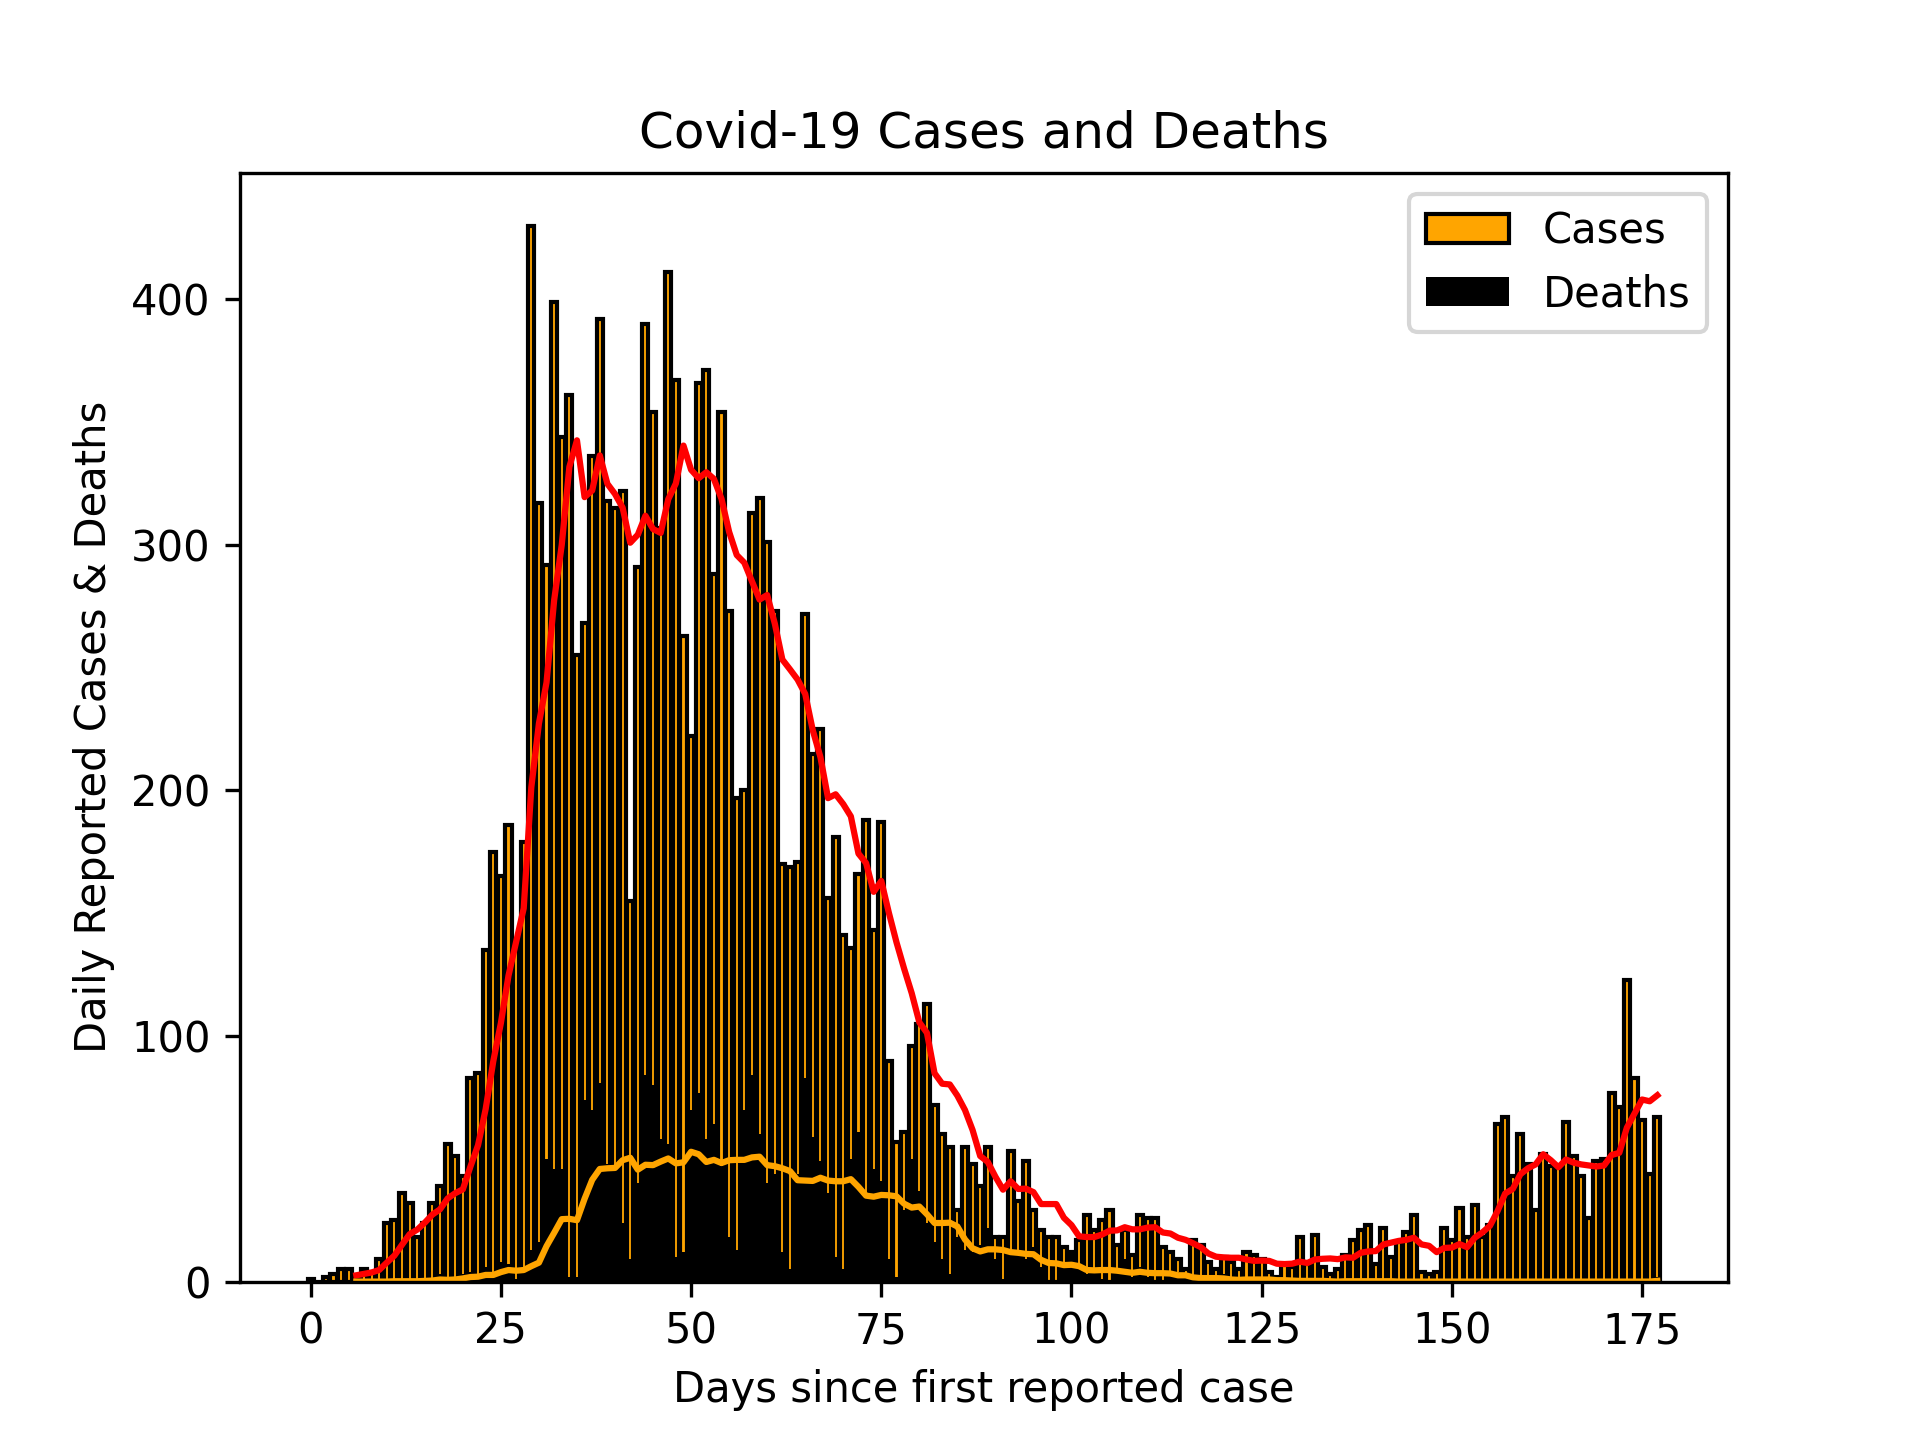
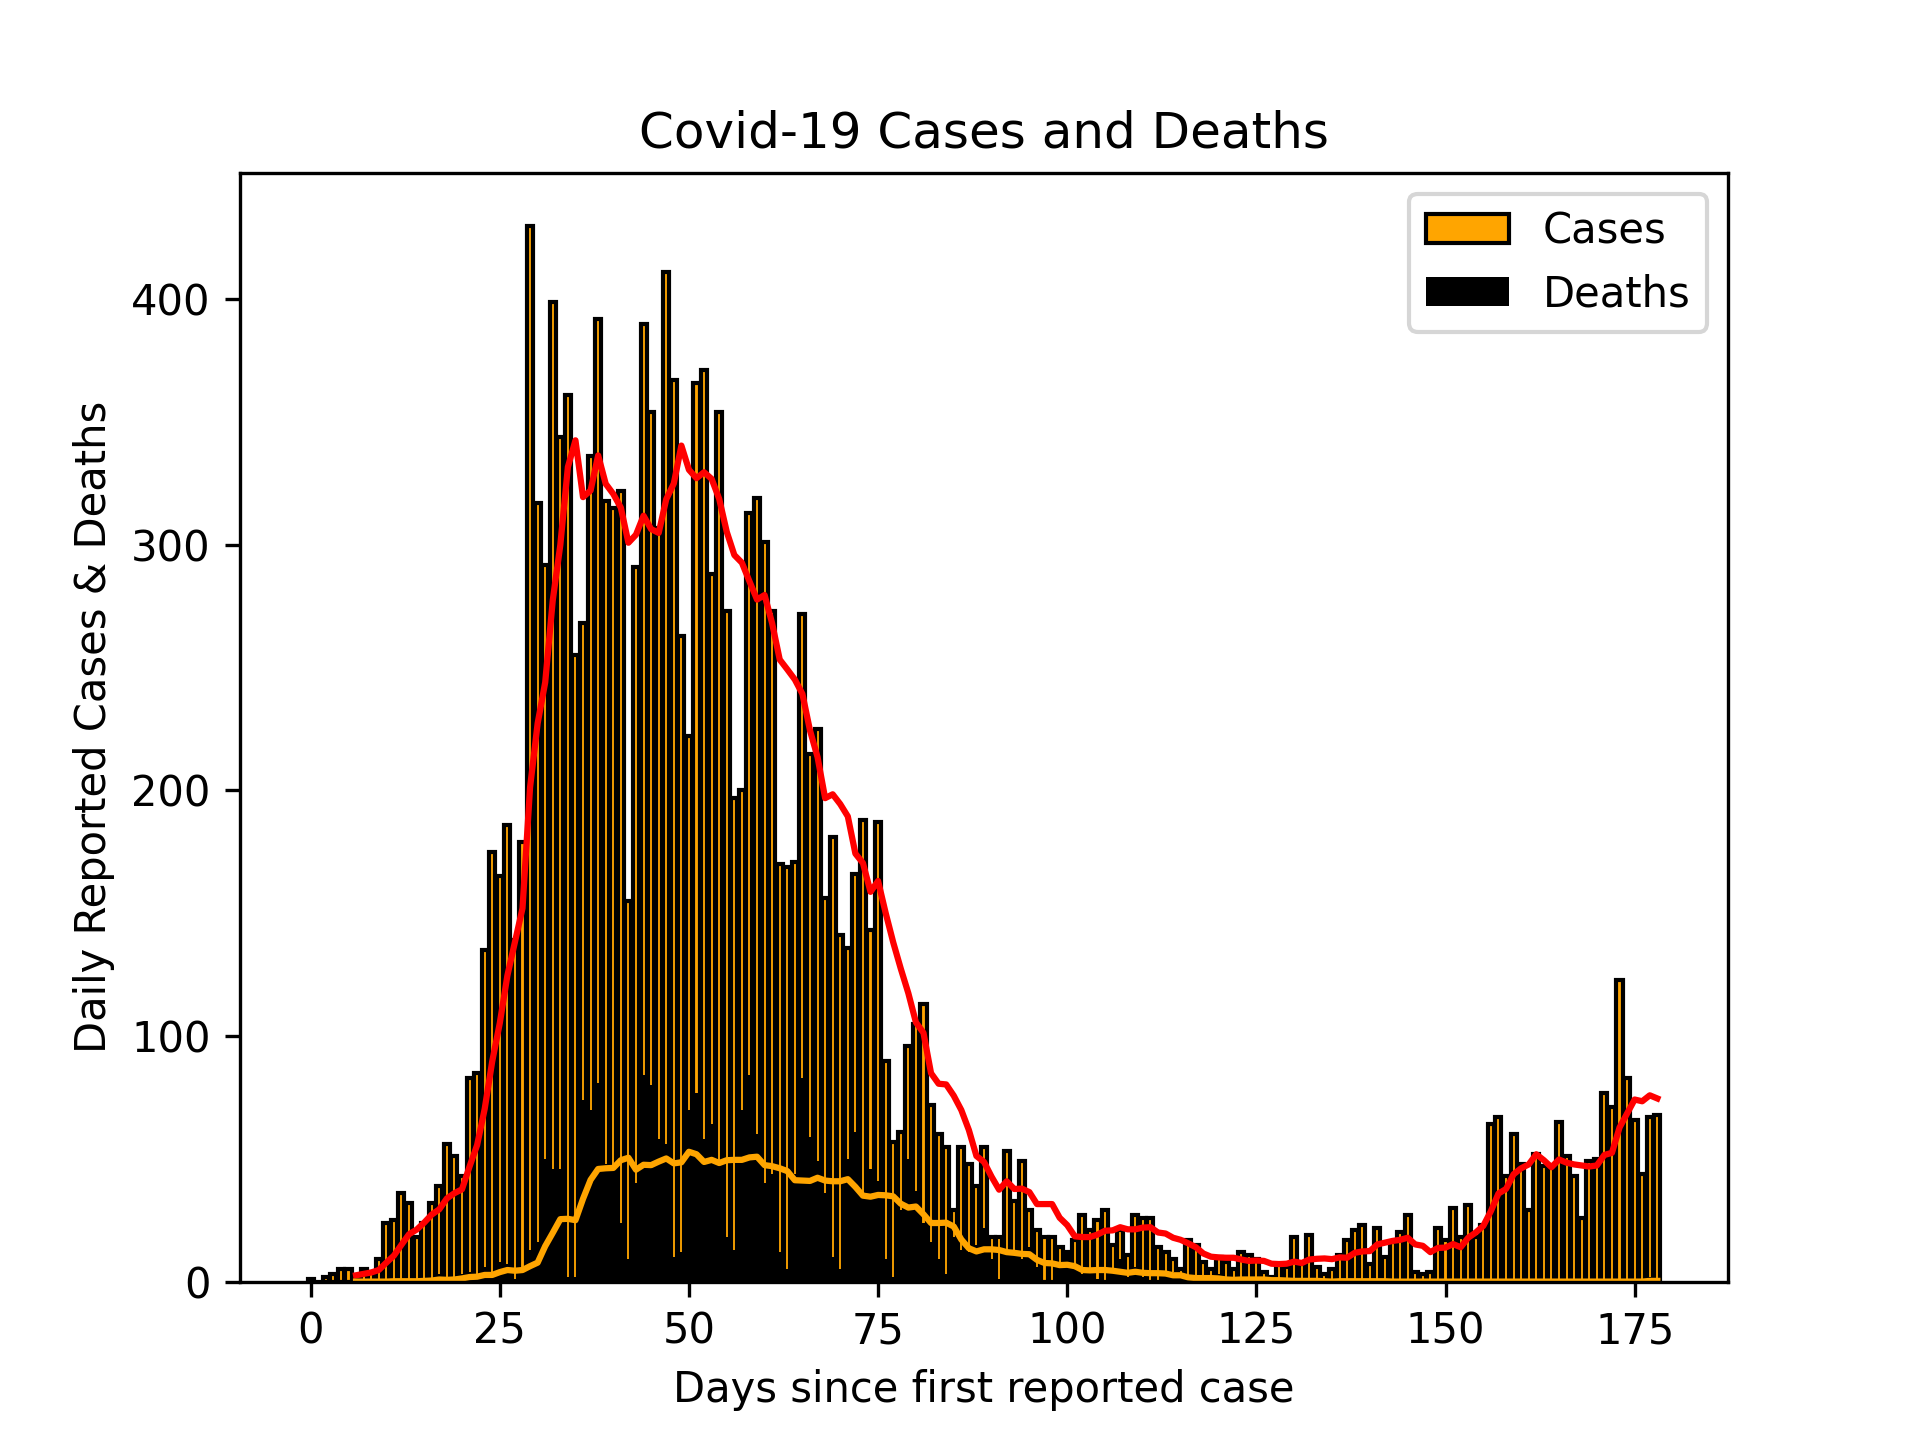
Updated Scottish cases 27/08/20

diff --git a/README.md b/README.md
@@ -1,3 +1,3 @@
-# Scottish Cases 26/08/20
+# Scottish Cases 27/08/20
 ![alt](scottish_cases.png)
 
